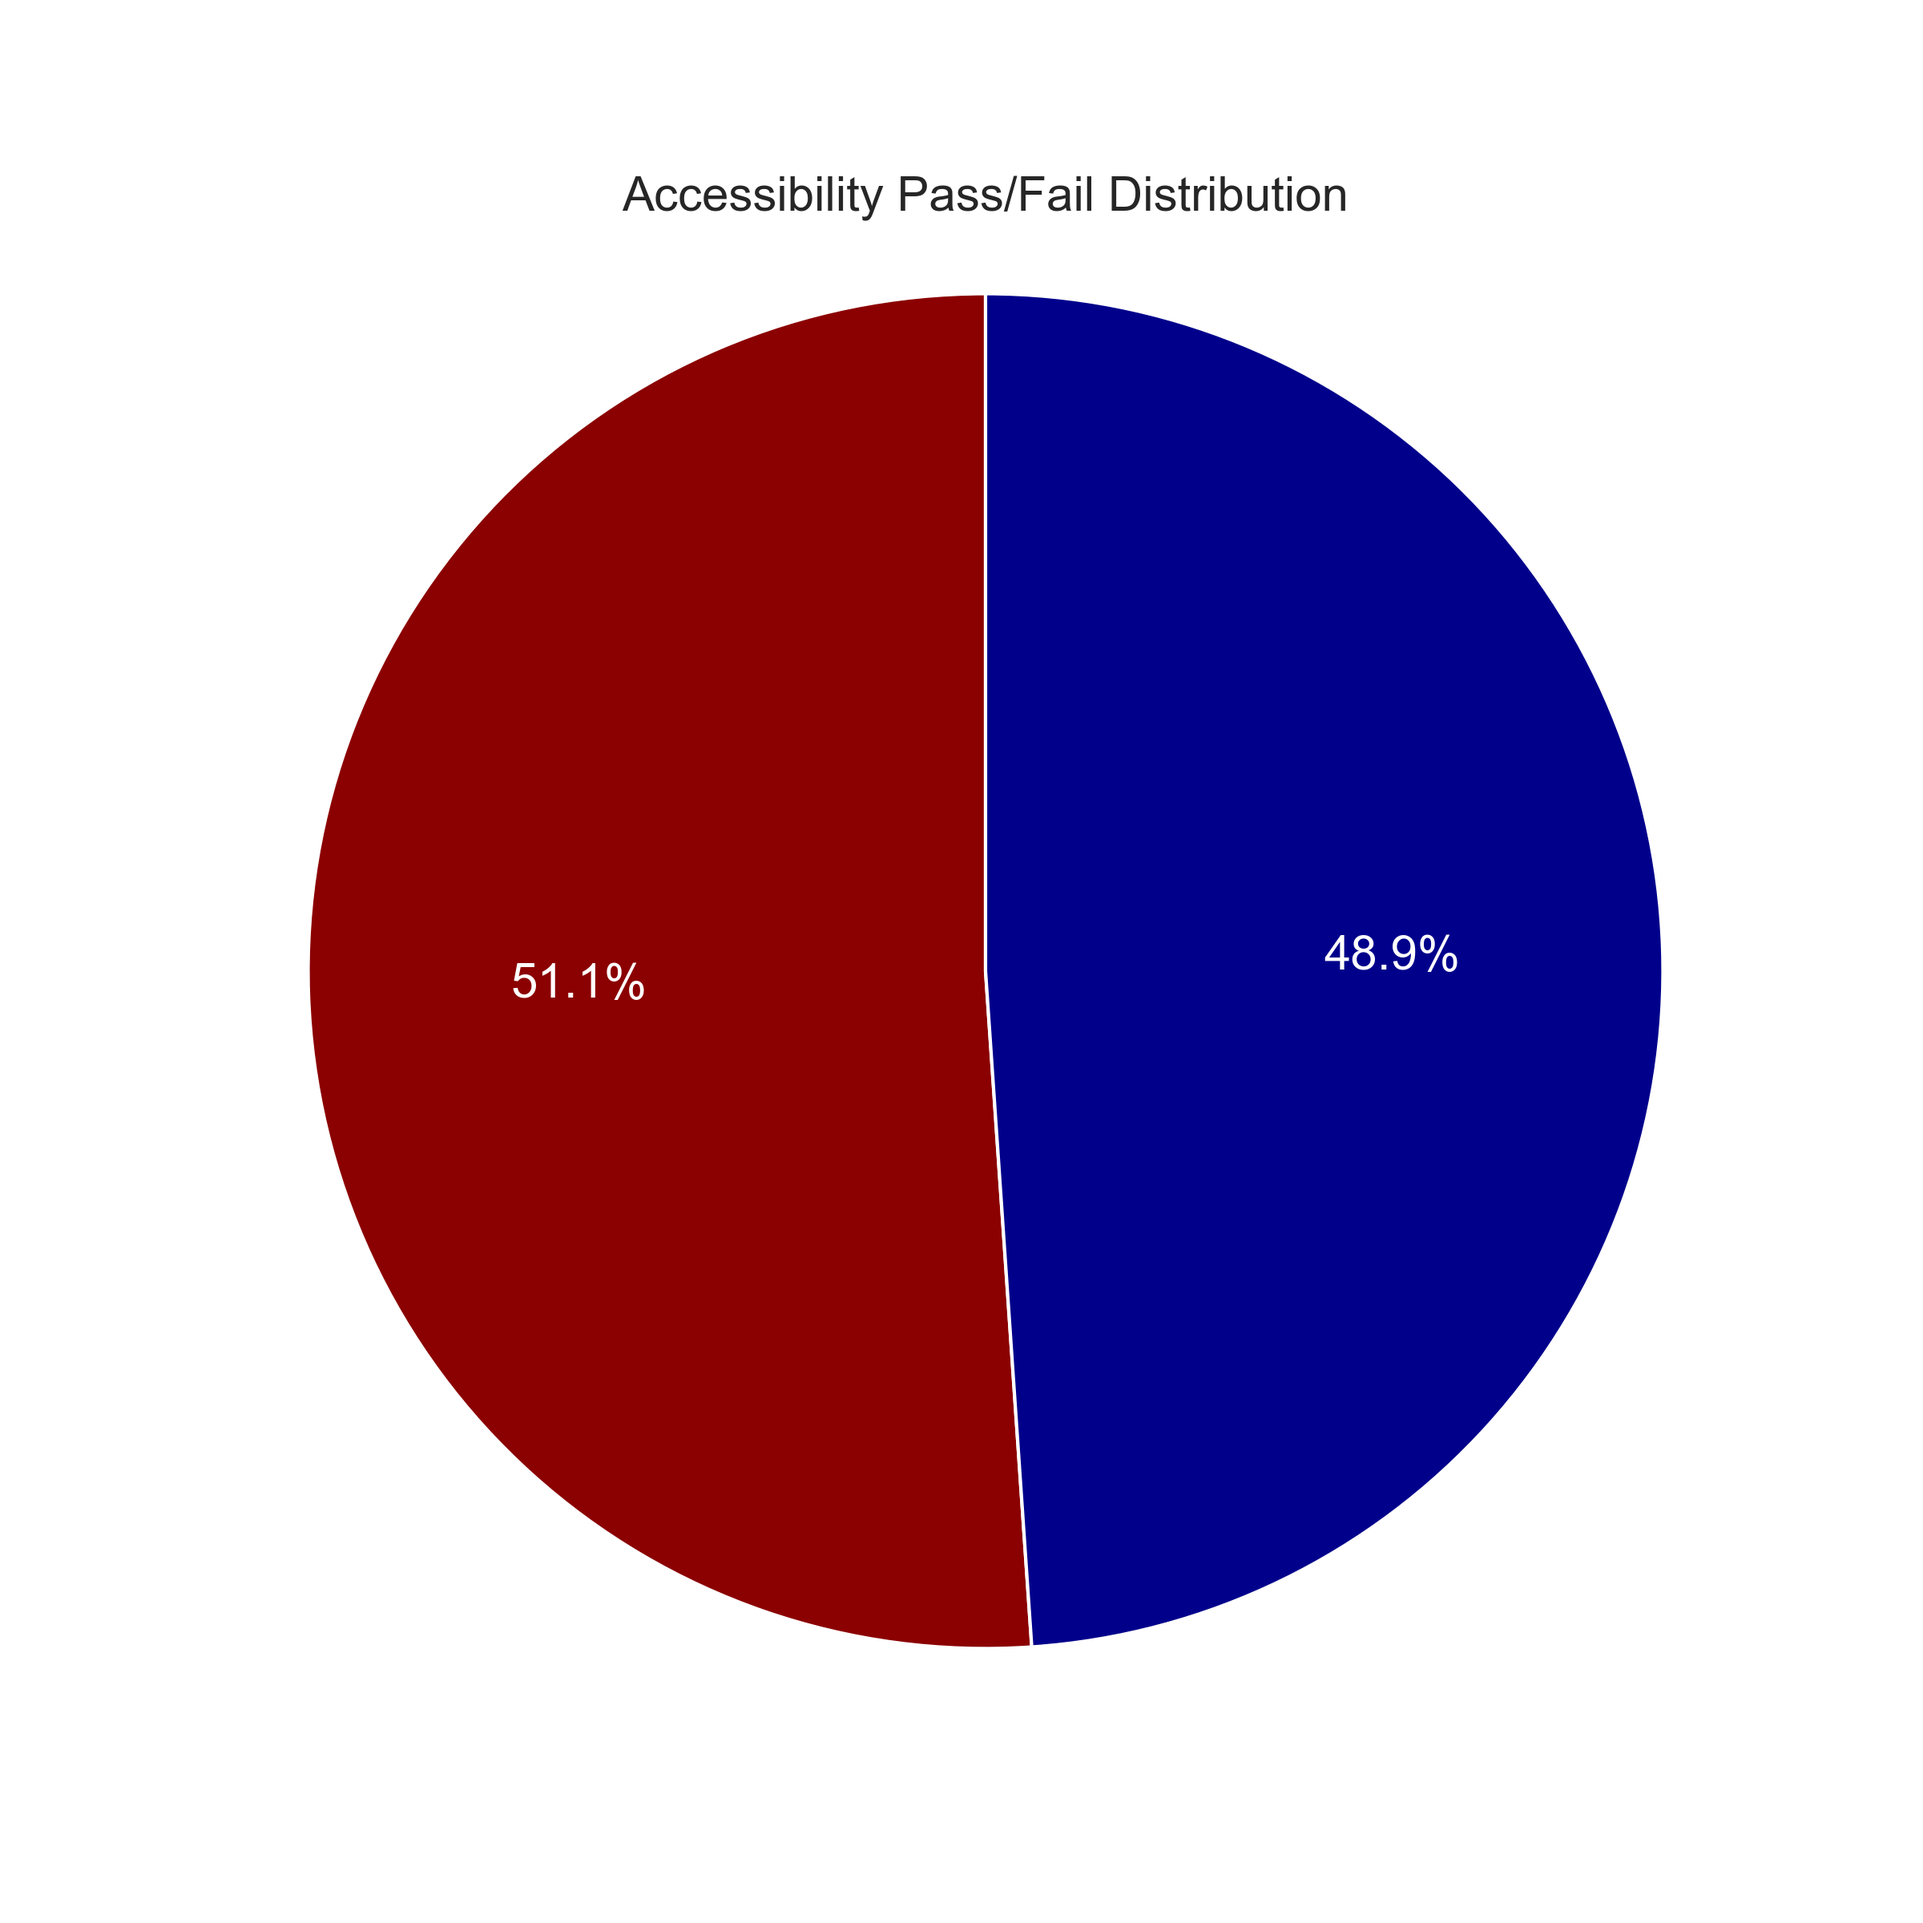
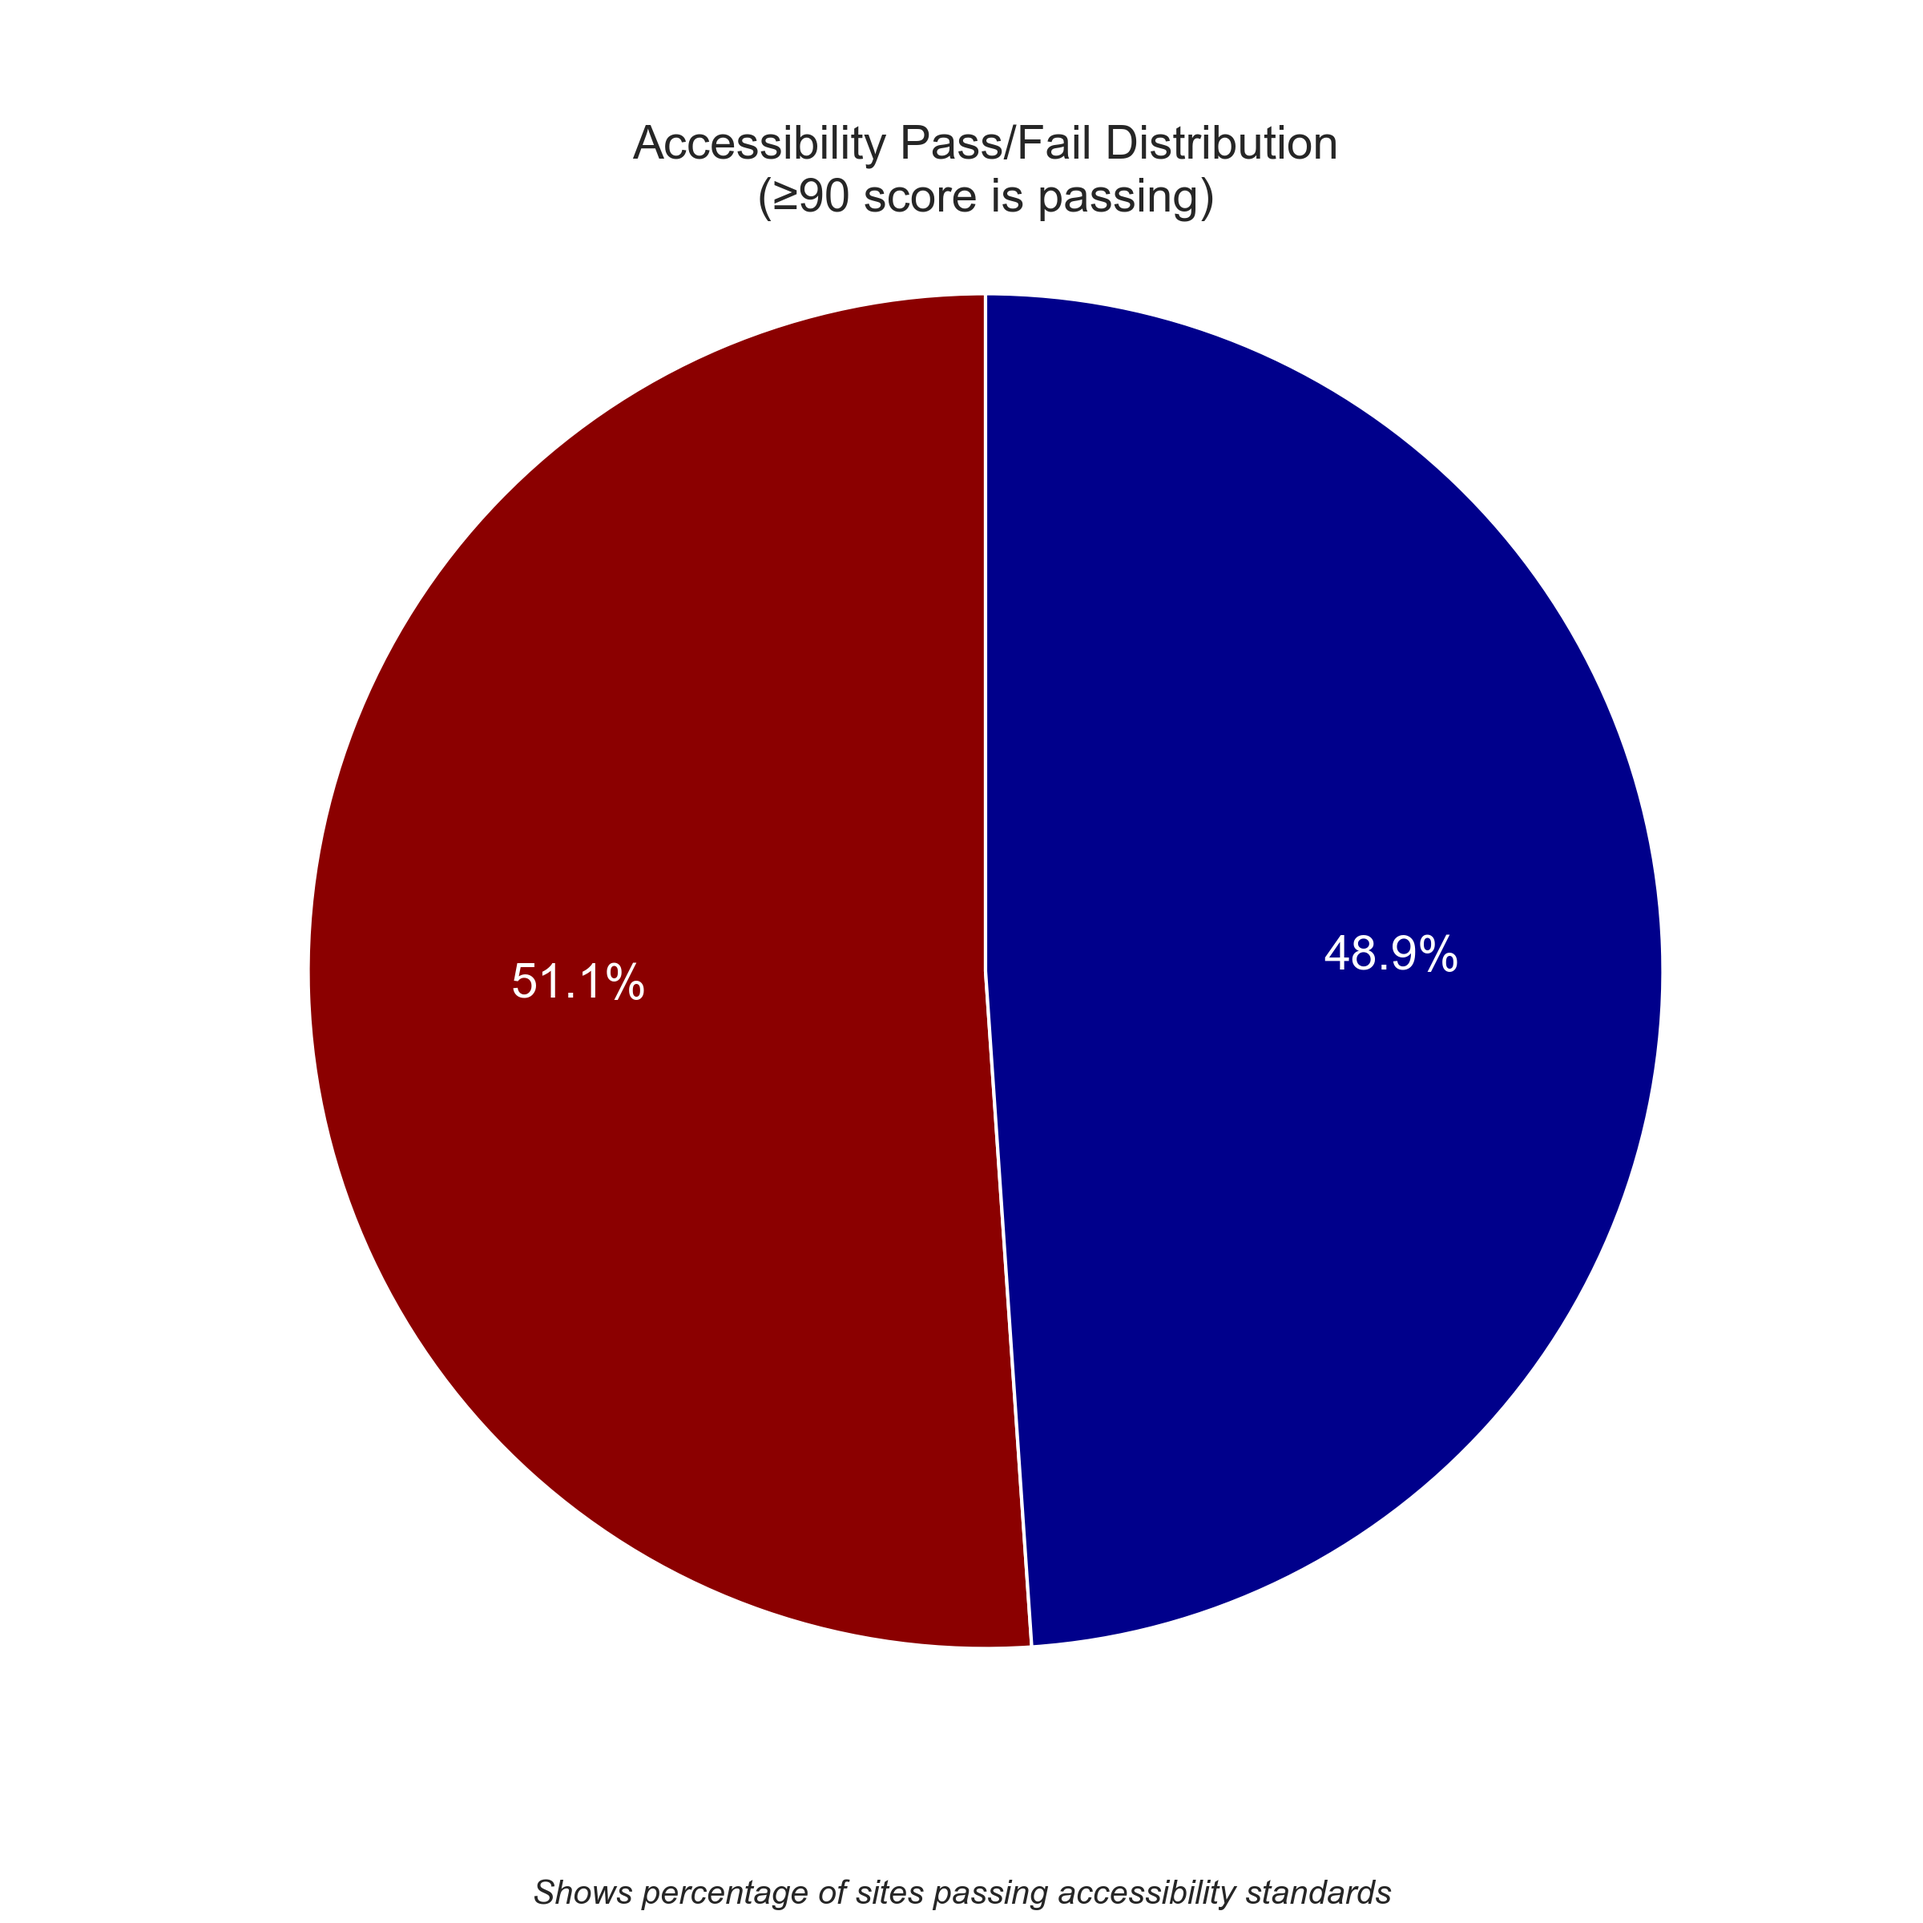
Remove co-occurrence plot and add descriptions to pie charts for better understanding

Changed region(s): [[0.3125, 0.0625, 0.6875, 0.125], [0.2812, 0.9688, 0.7188, 1.0]]

diff --git a/analytics_and_eda.py b/analytics_and_eda.py
@@ -194,7 +194,9 @@ def analyze_accessibility_issues(df):
                 colors=['#8B0000','#00008B'], textprops={'color': 'white'})
                 
         plt.axis('equal')
-        plt.title('Accessibility Pass/Fail Distribution')
+        plt.title('Accessibility Pass/Fail Distribution\n(≥90 score is passing)', fontsize=14)
+        plt.figtext(0.5, 0.01, 'Shows percentage of sites passing accessibility standards',
+                   ha='center', fontsize=10, fontstyle='italic')
         
         file_path = os.path.join(output_dir, "pass_fail_distribution.png")
         plt.savefig(file_path)
@@ -265,8 +267,12 @@ def create_accessibility_dashboard(df):
         pass_counts = df['AccessibilityResult'].value_counts()
         ax_pass_fail.pie(pass_counts, labels=pass_counts.index, autopct='%1.1f%%', startangle=90,
                 colors=['#8B0000','#00008B'], textprops={'color': 'white'})
-        ax_pass_fail.set_title('Accessibility Pass/Fail Distribution')
+        ax_pass_fail.set_title('Accessibility Pass/Fail Distribution (≥90)')
         ax_pass_fail.axis('equal')
+        
+        # Add descriptive text
+        ax_pass_fail.text(0, -1.3, 'Proportion of sites meeting accessibility standards', 
+                        ha='center', fontsize=9, fontstyle='italic')
     
     # 3. Top Issues Bar Chart
     ax_issues = fig.add_subplot(gs[1, 0])
@@ -628,6 +634,8 @@ def analyze_severity_distribution(df):
                    textprops={'color': 'white'})
             plt.axis('equal')
             plt.title('Keyboard Focus Issues by Severity', fontsize=16)
+            plt.figtext(0.5, 0.01, 'Distribution of keyboard focus issues by severity level\nHelps prioritize remediation efforts', 
+                        ha='center', fontsize=10, fontstyle='italic')
             
             # Improve overall appearance
             plt.tight_layout()
@@ -723,7 +731,9 @@ def analyze_embedded_severity(df, column):
                     textprops={'color': 'white'})
             
             plt.axis('equal')
-            plt.title(f'Severity Distribution: {column.replace("_", " ")}')
+            plt.title(f'Severity Distribution: {column.replace("_", " ")}', fontsize=14)
+            plt.figtext(0.5, 0.01, 'Shows proportion of issues by severity level\nHelps identify critical issues requiring immediate action',
+                       ha='center', fontsize=10, fontstyle='italic')
             
             # Save visualization
             file_path = os.path.join(output_dir, "severity_distribution.png")
@@ -827,9 +837,11 @@ def analyze_accessibility_pass_rates_over_time(df):
             ax.text(i, row.Pass + (row.Fail / 2), f'{fail_pct:.1f}%',
                    ha='center', va='center', color='white', fontweight='bold')
         
-        plt.title('Pass vs. Fail by Score Category (Threshold ≥90)')
+        plt.title('Pass vs. Fail by Score Category (Threshold ≥90)', fontsize=14)
         plt.xlabel('Score Category')
         plt.ylabel('Number of Sites')
+        plt.figtext(0.5, 0.01, 'Compares passing rates across different score categories\nHighlights which aspects require most improvement',
+                   ha='center', fontsize=10, fontstyle='italic')
         plt.tight_layout()
         
         file_path = os.path.join(output_dir, "pass_fail_by_category.png")
@@ -887,84 +899,15 @@ def analyze_accessibility_issues_relationships(df):
                 annot=True, fmt='.2f', square=True, linewidths=.5, cbar_kws={"shrink": .5})
     
     plt.title('Correlations Between Accessibility Issues', fontsize=16)
+    plt.figtext(0.5, 0.01, 'Shows which accessibility issues tend to appear together\nPositive values indicate issues that commonly co-occur', 
+               ha='center', fontsize=10, fontstyle='italic')
     plt.tight_layout()
     
     file_path = os.path.join(output_dir, "issue_correlations.png")
     plt.savefig(file_path)
     print(f"Saved issue correlations to {file_path}")
     
-    # Create a co-occurrence network visualization - simplified version
-    plt.figure(figsize=(14, 10))
-    
-    # Count co-occurrences between top issues
-    top_issues = issue_matrix.sum().sort_values(ascending=False).head(5).index.tolist()
-    co_occurrence = pd.DataFrame(index=top_issues, columns=top_issues, data=0)
-    
-    for i, issue1 in enumerate(top_issues):
-        for issue2 in top_issues[i:]:  # Only upper triangle
-            if issue1 != issue2:
-                # Count sites with both issues
-                both = ((issue_matrix[issue1] == 1) & (issue_matrix[issue2] == 1)).sum()
-                co_occurrence.loc[issue1, issue2] = both
-                co_occurrence.loc[issue2, issue1] = both
-    
-    # Create a directed graph visualization
-    from matplotlib.patches import FancyArrowPatch
-    
-    # Define node positions in a circle
-    import math
-    n_nodes = len(top_issues)
-    radius = 0.8
-    node_positions = {}
-    node_colors = {}
-    
-    for i, issue in enumerate(top_issues):
-        angle = 2 * math.pi * i / n_nodes
-        x = radius * math.cos(angle)
-        y = radius * math.sin(angle)
-        node_positions[issue] = (x, y)
-        node_colors[issue] = red_blue_palette[i % len(red_blue_palette)]
-    
-    # Plot nodes
-    fig, ax = plt.subplots(figsize=(14, 12))
-    ax.set_xlim(-1.2, 1.2)
-    ax.set_ylim(-1.2, 1.2)
-    
-    # Add edges (connections)
-    max_co = co_occurrence.max().max()
-    min_width = 1
-    max_width = 8
-    
-    for issue1 in top_issues:
-        for issue2 in top_issues:
-            if issue1 != issue2:
-                co_value = co_occurrence.loc[issue1, issue2]
-                if co_value > 0:
-                    # Scale line width by co-occurrence value
-                    width = min_width + ((co_value / max_co) * (max_width - min_width))
-                    ax.add_patch(FancyArrowPatch(
-                        node_positions[issue1], node_positions[issue2],
-                        arrowstyle='-', mutation_scale=20, 
-                        linewidth=width, alpha=0.7, color='#808080'))
-    
-    # Plot nodes over edges
-    for issue in top_issues:
-        x, y = node_positions[issue]
-        # Plot node
-        count = issue_matrix[issue].sum()
-        size = 1000 * (count / issue_matrix.shape[0])  # Size based on prevalence
-        ax.scatter(x, y, s=size, color=node_colors[issue], alpha=0.8, edgecolor='white', linewidth=2)
-        
-        # Add labels with count
-        ax.text(x, y, f"{issue}\n({count})", ha='center', va='center', 
-                fontsize=10, fontweight='bold', color='white')
-    
-    ax.set_title('Co-occurrence of Top 5 Accessibility Issues', fontsize=16)
-    ax.axis('off')
-    
-    file_path = os.path.join(output_dir, "issue_co_occurrence.png")
-    plt.savefig(file_path)
-    print(f"Saved issue co-occurrence visualization to {file_path}")
+    # Removing co-occurrence network visualization as requested
     
     return issue_corr
 
